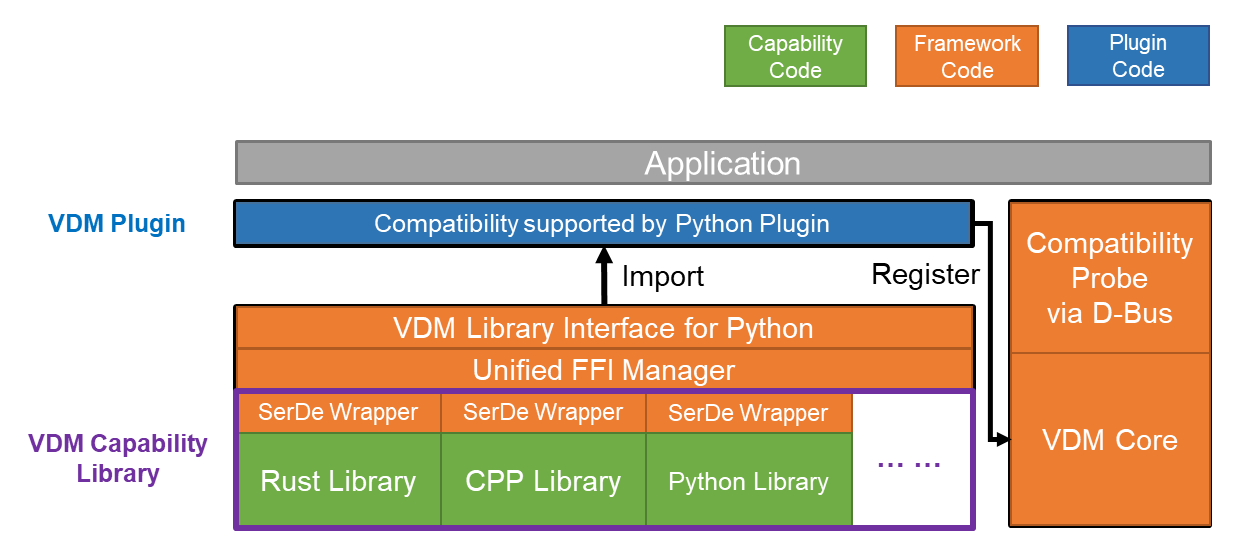
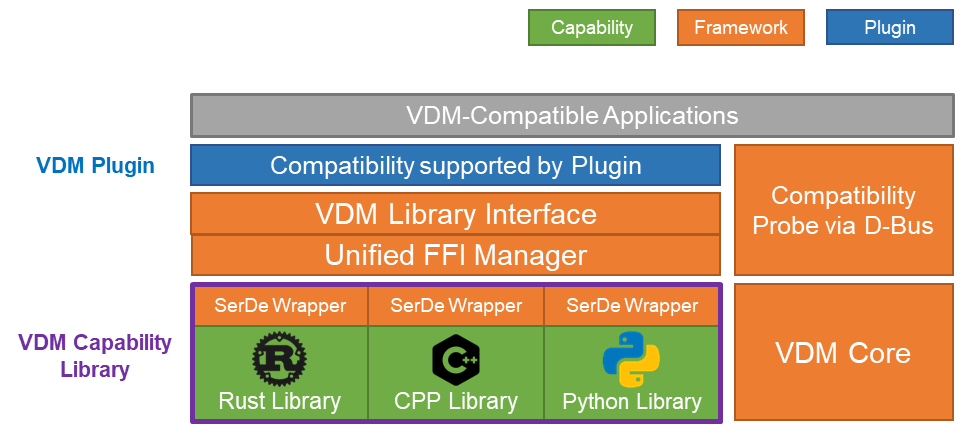
bulky update: - update structure - add application manager - prepare for meta plugin support

diff --git a/core/pyvdm/ApplicationManager.py b/core/pyvdm/ApplicationManager.py
@@ -1,0 +1,124 @@
+#!/usr/bin/env python3
+import os, json
+import dbus
+import argparse
+from pathlib import Path
+from configparser import RawConfigParser
+import pyvdm.core.PluginManager as P_MAN
+from pyvdm.core.PluginManager import MetaPlugin
+from pyvdm.core.errcode import ApplicationCode as ERR
+
+def _non_gui_filter(conf) -> bool:
+    _flag = False
+    _flag = _flag or 'NoDisplay' in conf['Desktop Entry']
+    _flag = _flag or 'OnlyShowIn' in conf['Desktop Entry']
+    _flag = _flag or 'NotShowIn' in conf['Desktop Entry']
+    _flag = _flag or ('Terminal' in conf['Desktop Entry'] and conf['Desktop Entry']['Terminal']=='true')
+    return _flag
+
+def _compatibility_filter(conf) -> bool:
+    if 'Categories' in conf['Desktop Entry']:
+        _cat = conf['Desktop Entry']['Categories'].split(';')
+        return ('VDM' in _cat)
+    else:
+        return False
+    pass
+
+def _plugin_supported(conf) -> bool:
+    #TODO: invoke plugin manager
+    return False
+
+class ApplicationManager:
+    @staticmethod
+    def list_all_applications() -> dict:
+        applications = dict()
+        ##
+        data_dirs = os.environ['XDG_DATA_DIRS'].split(':')
+        for _path in data_dirs:
+            app_dir = Path(_path) / 'applications'
+            if app_dir.exists():
+                for app_file in app_dir.glob('*.desktop'):
+                    app_conf = RawConfigParser(allow_no_value=True, default_section='Desktop Entry', strict=False)
+                    app_conf.read( app_file.as_posix() )
+                    if not _non_gui_filter(app_conf):
+                        try:
+                            applications[ app_file.stem ] = {
+                                "name": app_conf['Desktop Entry']['Name'],
+                                "exec": app_conf['Desktop Entry']['Exec'],
+                                "type": app_conf['Desktop Entry']['Type'],
+                                "compatible":  _compatibility_filter(app_conf) 
+                            }
+                        except Exception as e:
+                            pass
+                    pass
+            pass
+        return applications
+
+    def __init__(self):
+        self.applications = dict()
+        self.refresh()
+        # self.supported = self.probe_compatibility()
+        # self.generated = self.applications / self.supported
+        pass
+
+    def refresh(self):
+        _apps = self.list_all_applications()
+        for app in _apps:
+            app_name = app['name']
+            if app_name not in self.applications:
+                if app['compatible']:
+                    _plugin = self.probe_compatibility(app)
+                elif _plugin_supported(app):
+                    _plugin = None #TODO: PM.getInstalledPlugin(app_name)
+                    app['compatible'] = 'plugin'
+                else:
+                    _plugin = self.default_compatibility(app)
+                ##
+                self.applications[app_name] = app
+                self.applications[app_name]['plugin'] = _plugin
+        pass
+        pass
+
+    def default_compatibility(self, app_name) -> MetaPlugin:
+        #TODO: generate 
+        pass
+
+    def probe_compatibility(self, app_name) -> MetaPlugin:
+        #TODO: first try dbus interface
+        #TODO: then try application file section
+        pass
+
+    pass
+
+def execute(am, command, args, verbose=False):
+    assert( isinstance(am, ApplicationManager) )
+    if command=='list':
+        ret = am.list_all_applications()
+        # print( list(ret.keys()) )
+        print( json.dumps(ret, indent=4) )
+        return ret
+    else:
+        print('The command <{}> is not supported.'.format(command))
+    pass
+
+def init_subparsers(subparsers):
+    p_list = subparsers.add_parser('list',
+        help='list all supported applications.')
+    pass
+
+if __name__ == "__main__":
+    try:
+        parser = argparse.ArgumentParser(
+            description='VDM Application Manager.')
+        subparsers = parser.add_subparsers(dest='command')
+        init_subparsers(subparsers)
+        #
+        args = parser.parse_args()
+        am = ApplicationManager()
+        ret = execute(am, args.command, args)
+        if isinstance(ret, ERR):
+            raise Exception(ret.name)
+    except Exception as e:
+        raise e#pass
+    finally:
+        pass#exit()

diff --git a/core/pyvdm/PluginManager.py b/core/pyvdm/PluginManager.py
@@ -4,7 +4,7 @@ import sys, inspect
 from pathlib import Path
 sys.path.append( Path(__file__).resolve().parent.as_posix() )
 # normal import
-import os, argparse, re
+import os, argparse, re, dbus
 import tempfile, shutil
 import ctypes
 import multiprocessing as mp
@@ -23,9 +23,36 @@ REQUIRED_FIELDS = ['name', 'version', 'author', 'main', 'license']
 OPTIONAL_FIELDS = ['description', 'keywords', 'capability', 'scripts']
 OPTIONAL_SCRIPTS= ['pre-install', 'post-install', 'pre-uninstall', 'post-uninstall']
 
-class PluginWrapper():
+class MetaPlugin(SRC_API):
+    def __init__(self, name, cmd):
+        self.name = name
+        self.exec = cmd
+
+    def onStart(self):
+        return 0
+
+    def onStop(self):
+        return 0
+
+    def __getInstances(self):
+        sess = dbus.SessionBus()
+        _names = filter(lambda x:f'org.vdm-compatible.{self.name}' in x, sess.list_names())
+        #TODO: get interface 'org.vdm-compatible' from 'org/vdm-compatible' of f'{name}'
+        pass
+
+    def onSave(self, stat_file):
+
+        return 0
+
+    def onResume(self, stat_file):
+        return 0
+
+    def onClose(self):
+        return 0
+    pass
+
+class PluginWrapper(MetaPlugin):
     def __init__(self, config, entry):
-        self.config = config
         self.name = config['name']
         self.root = Path.cwd()
         if entry.endswith('.py'):

diff --git a/core/pyvdm/DomainManager.py b/core/pyvdm/DomainManager.py
@@ -47,7 +47,7 @@ class DomainManager():
             config['name'] = name
         else:
             config['name'] = Tui.ask('Domain Name', default=name)
-        # ask for plugins selection
+        # ask for plugins selection #FIXME: ask from AM white-list
         _plugins = P_MAN.PluginManager().list()
         all_plugin_names = list( _plugins.keys() )
         _plugin_names = list( config['plugins'].keys() ) if 'plugins' in config else None

diff --git a/core/pyvdm/errcode.py b/core/pyvdm/errcode.py
@@ -43,6 +43,9 @@ class CapabilityCode(ErrorCode):
     DAEMON_IS_STOPPED     = 0x1600
     pass
 
+class ApplicationCode(ErrorCode):
+    pass
+
 ## Bare Code Section
 # for plugin use
 CONFIG_REQUIRED_FIELD_MISSING   = 0x1001

diff --git a/core/pyvdm/__init__.py b/core/pyvdm/__init__.py
@@ -1,4 +1,4 @@
 __all__ = [
     'manager', 'utils', 'errcode',
-    'CapabilityManager', 'DomainManager', 'PluginManager'
+    'ApplicationManager', 'CapabilityManager', 'DomainManager', 'PluginManager'
 ]

diff --git a/README.md b/README.md
@@ -6,9 +6,7 @@
 ## Introduction
 <p align="center">
   <img src="./previews/structure.png" width="650px" />
-</p>
-
-> Currently, we are seeking for help on: application development or modification for VDM. If you are interested, please try to [contact me](mailto:sudofree_at_163_com). 
+</p> 
 
 ## Installation
 
